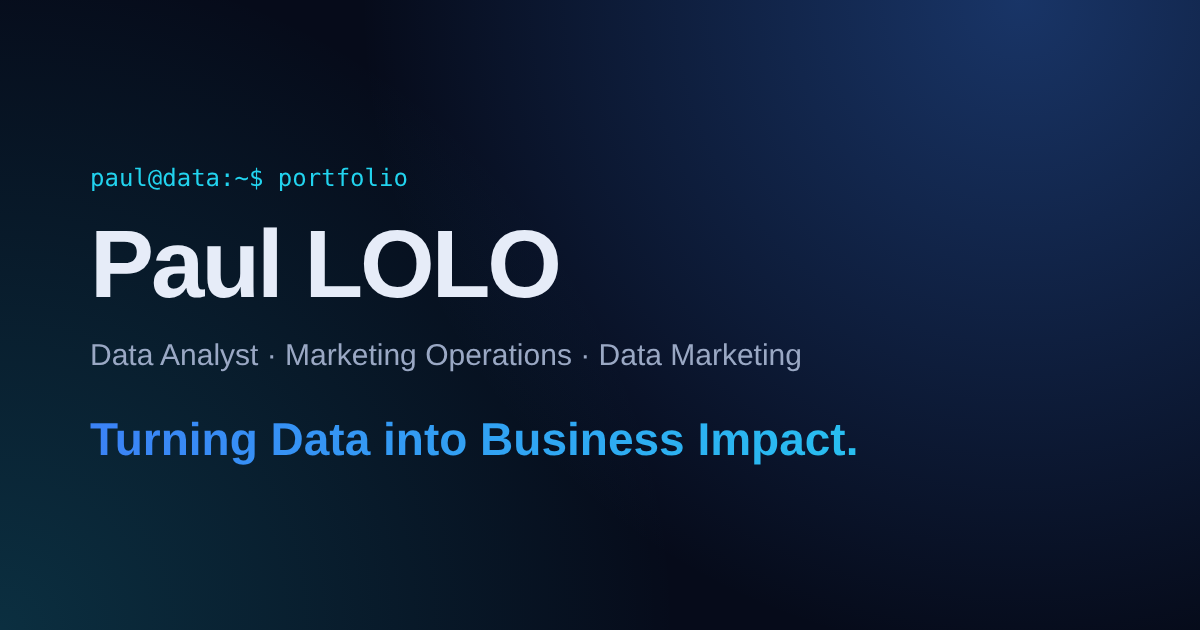
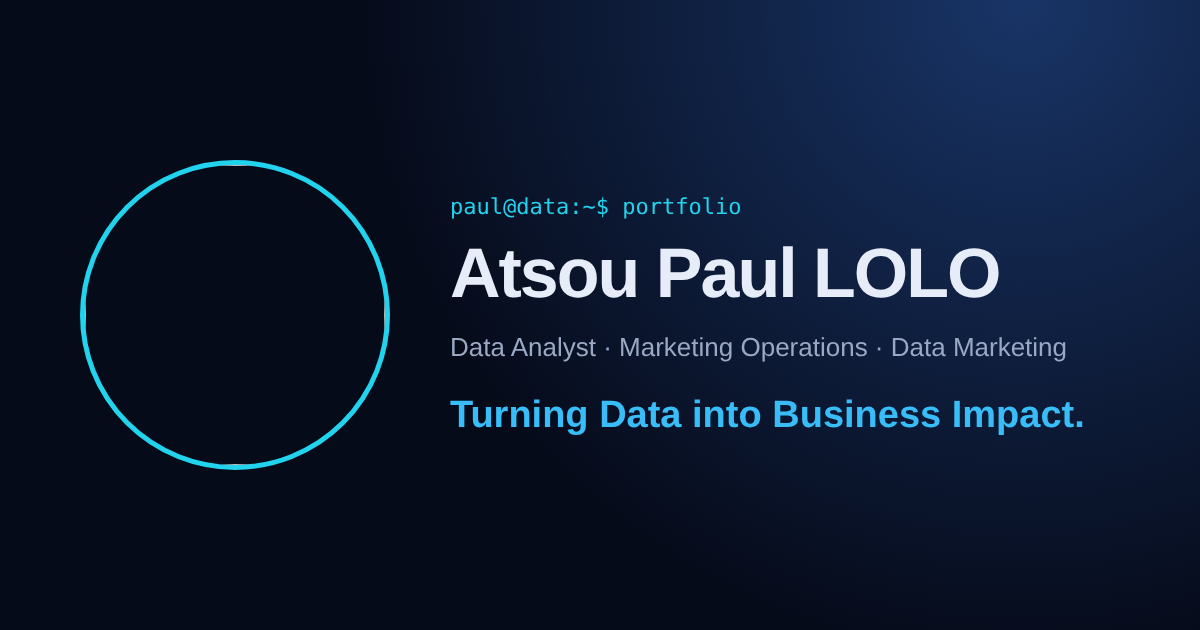
Name, profile photo, Marketing Ops tools
- Display name: Atsou Paul LOLO (header, hero, SEO tags, footer, share image)
- Profile photo in hero and About section
- Workflow steps shown as '01. Audit', '02. Track'...
- Added Google Analytics, Shopify, PrestaShop, UX Research, A/A & A/B testing

Claude-Session: https://claude.ai/code/session_01PvdbJfkUJEkWPGfozsGeSC

Changed region(s): [[0.0, 0.2413, 0.8942, 1.0]]

diff --git a/index.html b/index.html
@@ -4,21 +4,21 @@
   <meta charset="utf-8">
   <script>document.documentElement.classList.remove("no-js");</script>
   <meta name="viewport" content="width=device-width, initial-scale=1">
-  <title>Paul LOLO — Data Analyst | Marketing Operations | Data Marketing</title>
-  <meta name="description" content="Portfolio of Paul LOLO, Data Analyst and Marketing Operations profile: SQL, Power BI, Tableau, CRM analytics and digital project management. Open to apprenticeship opportunities.">
-  <meta name="author" content="Paul LOLO">
+  <title>Atsou Paul LOLO — Data Analyst | Marketing Operations | Data Marketing</title>
+  <meta name="description" content="Portfolio of Atsou Paul LOLO, Data Analyst and Marketing Operations profile: SQL, Power BI, Tableau, CRM analytics and digital project management. Open to apprenticeship opportunities.">
+  <meta name="author" content="Atsou Paul LOLO">
   <meta name="theme-color" content="#060b1a">
   <link rel="canonical" href="https://paul-lolo.netlify.app/">
 
   <!-- Open Graph / social sharing -->
   <meta property="og:type" content="website">
-  <meta property="og:title" content="Paul LOLO — Turning Data into Business Impact">
+  <meta property="og:title" content="Atsou Paul LOLO — Turning Data into Business Impact">
   <meta property="og:description" content="Data Analyst | Marketing Operations | Data Marketing | Digital Project Manager. Projects, dashboards and experience.">
   <meta property="og:url" content="https://paul-lolo.netlify.app/">
   <meta property="og:image" content="https://paul-lolo.netlify.app/assets/og-image.png">
   <meta property="og:locale" content="en_US">
   <meta name="twitter:card" content="summary_large_image">
-  <meta name="twitter:title" content="Paul LOLO — Turning Data into Business Impact">
+  <meta name="twitter:title" content="Atsou Paul LOLO — Turning Data into Business Impact">
   <meta name="twitter:description" content="Data Analyst | Marketing Operations | Data Marketing | Digital Project Manager.">
   <meta name="twitter:image" content="https://paul-lolo.netlify.app/assets/og-image.png">
 
@@ -32,10 +32,11 @@
   {
     "@context": "https://schema.org",
     "@type": "Person",
-    "name": "Paul LOLO",
+    "name": "Atsou Paul LOLO",
     "jobTitle": "Data Analyst | Marketing Operations | Data Marketing",
     "email": "mailto:lolopaul208@gmail.com",
     "url": "https://paul-lolo.netlify.app/",
+    "image": "https://paul-lolo.netlify.app/assets/atsou-paul-lolo.jpg",
     "sameAs": ["https://www.linkedin.com/in/paul-lolo-960610234/", "https://github.com/lolopaul208"],
     "alumniOf": { "@type": "CollegeOrUniversity", "name": "INSEEC" },
     "knowsAbout": ["Data Analysis", "SQL", "Power BI", "Tableau", "CRM Analytics", "Marketing Operations", "SEO"]
@@ -47,9 +48,9 @@
 
   <header class="site-header" id="top">
     <nav class="nav container" aria-label="Main navigation">
-      <a href="#home" class="brand" aria-label="Paul LOLO — home">
+      <a href="#home" class="brand" aria-label="Atsou Paul LOLO — home">
         <span class="brand-mark" aria-hidden="true">PL</span>
-        <span class="brand-name">Paul LOLO</span>
+        <span class="brand-name">Atsou Paul LOLO</span>
       </a>
       <button class="nav-toggle" aria-expanded="false" aria-controls="nav-links" aria-label="Open menu">
         <span></span><span></span><span></span>
@@ -73,8 +74,8 @@
       <div class="hero-grid-bg" aria-hidden="true"></div>
       <div class="container hero-inner">
         <div class="hero-text reveal">
-          <p class="eyebrow"><span class="status-dot" aria-hidden="true"></span> Open to apprenticeship opportunities</p>
-          <h1 id="hero-title">Paul <span class="accent">LOLO</span></h1>
+          <div class="hero-id"><img class="hero-avatar" src="assets/atsou-paul-lolo.jpg" alt="" width="64" height="64"><p class="eyebrow"><span class="status-dot" aria-hidden="true"></span> Open to apprenticeship opportunities</p></div>
+          <h1 id="hero-title">Atsou Paul <span class="accent">LOLO</span></h1>
           <p class="hero-role">Data Analyst <i>·</i> Marketing Operations <i>·</i> Data Marketing <i>·</i> Digital Project Manager</p>
           <p class="hero-tagline">Turning Data into <span class="grad">Business Impact.</span></p>
           <p class="hero-lead">I query, clean and model data, build dashboards that decision-makers actually use, and connect the numbers to marketing and business questions.</p>
@@ -104,6 +105,10 @@
         <div class="reveal">
           <p class="section-kicker">01 — About</p>
           <h2 id="about-title">Between data, marketing<br>and business.</h2>
+          <figure class="about-photo">
+            <img src="assets/atsou-paul-lolo.jpg" alt="Portrait of Atsou Paul LOLO" width="560" height="560" loading="lazy">
+            <figcaption><strong>Atsou Paul LOLO</strong><span>Data Analyst · Marketing Ops · Lyon, France</span></figcaption>
+          </figure>
         </div>
         <div class="about-text reveal">
           <p>I'm a <strong>Master's student specialising in Data Marketing at INSEEC</strong>, with a background in data analysis, artificial intelligence and data-driven marketing.</p>
@@ -144,12 +149,12 @@
           <article class="skill-card reveal">
             <div class="skill-icon" aria-hidden="true"><svg viewBox="0 0 24 24"><path d="M3 17l6-6 4 4 8-8"/><path d="M15 7h6v6"/></svg></div>
             <h3>Digital Growth</h3>
-            <ul class="chips"><li>SEO</li><li>Local SEO</li><li>Acquisition Strategy</li><li>Web Analytics</li><li>Conversion Optimization</li></ul>
+            <ul class="chips"><li>SEO</li><li>Local SEO</li><li>Acquisition Strategy</li><li>Web Analytics</li><li>Google Analytics</li><li>Shopify</li><li>PrestaShop</li><li>Conversion Optimization</li></ul>
           </article>
           <article class="skill-card reveal">
             <div class="skill-icon" aria-hidden="true"><svg viewBox="0 0 24 24"><rect x="3" y="4" width="18" height="16" rx="2"/><path d="M3 9h18M8 13h3M8 16h6"/></svg></div>
             <h3>Product &amp; Project Management</h3>
-            <ul class="chips"><li>Digital Project Management</li><li>Product Thinking</li><li>User Journey</li><li>Process Design</li></ul>
+            <ul class="chips"><li>Digital Project Management</li><li>Product Thinking</li><li>User Journey</li><li>UX Research</li><li>A/A &amp; A/B Testing</li><li>Process Design</li></ul>
           </article>
         </div>
       </div>
@@ -201,10 +206,10 @@
         </div>
 
         <ol class="workflow reveal" aria-label="How I work on acquisition">
-          <li><span class="wf-n">01</span><strong>Audit</strong><span>Where does traffic come from? What blocks conversion?</span></li>
-          <li><span class="wf-n">02</span><strong>Track</strong><span>UTMs, events and goals so every channel is measured the same way.</span></li>
-          <li><span class="wf-n">03</span><strong>Optimize</strong><span>SEO, paid search and landing pages, prioritised by impact.</span></li>
-          <li><span class="wf-n">04</span><strong>Report</strong><span>Clear KPIs and dashboards that lead to the next decision.</span></li>
+          <li><p class="wf-head"><span class="wf-n">01.</span> <strong>Audit</strong></p> <span class="wf-desc">Where does traffic come from? What blocks conversion?</span></li>
+          <li><p class="wf-head"><span class="wf-n">02.</span> <strong>Track</strong></p> <span class="wf-desc">UTMs, events and goals so every channel is measured the same way.</span></li>
+          <li><p class="wf-head"><span class="wf-n">03.</span> <strong>Optimize</strong></p> <span class="wf-desc">SEO, paid search and landing pages, prioritised by impact.</span></li>
+          <li><p class="wf-head"><span class="wf-n">04.</span> <strong>Report</strong></p> <span class="wf-desc">Clear KPIs and dashboards that lead to the next decision.</span></li>
         </ol>
 
         <div class="mops-grid" id="mops-grid"></div>
@@ -251,7 +256,7 @@
 
   <footer class="site-footer">
     <div class="container footer-inner">
-      <p>© <span id="year"></span> Paul LOLO</p>
+      <p>© <span id="year"></span> Atsou Paul LOLO</p>
       <p class="muted">Dashboard demos use fictitious data.</p>
       <a href="#top" class="muted">Back to top ↑</a>
     </div>

diff --git a/js/data.js b/js/data.js
@@ -144,10 +144,10 @@ window.PORTFOLIO = {
     },
     {
       icon: "plausible",
-      title: "Privacy-friendly Web Analytics",
-      text: "Cookie-less audience measurement that stays GDPR-compliant while still answering the key questions: where visitors come from and what they do.",
-      tasks: ["Traffic sources & referrers", "Goals and custom events", "Top pages and entry points", "Lightweight dashboards for the team"],
-      tools: ["Plausible Analytics"],
+      title: "Web Analytics",
+      text: "Measuring where visitors come from and what they do — with Google Analytics, or cookie-less and GDPR-friendly with Plausible.",
+      tasks: ["Traffic sources & referrers", "Goals, conversions and custom events", "Top pages and entry points", "Audience dashboards for the team"],
+      tools: ["Google Analytics 4", "Plausible Analytics"],
       usedOn: ["Le Pont Étudiant"]
     },
     {
@@ -163,6 +163,20 @@ window.PORTFOLIO = {
       text: "Turning visitors into qualified leads, then into customers — and using data to personalise each step.",
       tasks: ["Funnel analysis (visit → lead → customer)", "Landing-page and form optimisation", "Segmentation and lead scoring", "CRM data quality and enrichment"],
       tools: ["CRM", "SQL", "Power BI"]
+    },
+    {
+      icon: "shop",
+      title: "E-commerce Platforms",
+      text: "Running the marketing side of online shops: product pages, catalogue data and the sales funnel from visit to order.",
+      tasks: ["Product page and catalogue optimisation", "E-commerce tracking (orders, basket, revenue)", "Checkout funnel analysis", "Promotions and campaign follow-up"],
+      tools: ["Shopify", "PrestaShop", "Google Analytics 4"]
+    },
+    {
+      icon: "ux",
+      title: "UX Research & Testing",
+      text: "Understanding users before changing a page, then testing changes instead of guessing.",
+      tasks: ["User interviews and journey mapping", "Usability reviews of key pages", "A/A tests to validate the testing setup", "A/B tests on pages, forms and messages"],
+      tools: ["UX Research", "A/A Testing", "A/B Testing"]
     }
   ],
 

diff --git a/css/style.css b/css/style.css
@@ -460,3 +460,24 @@ ul, ol { margin: 0; padding: 0; list-style: none; }
 @media (max-width: 1100px) { .nav-links a { padding: 8px 10px; font-size: .9rem; } }
 @media (max-width: 960px) { .mops-grid { grid-template-columns: 1fr 1fr; } .workflow { grid-template-columns: 1fr 1fr; } .workflow li:nth-child(3) { border-left: 0; } .workflow li:nth-child(n+3) { border-top: 1px solid var(--border); } .workflow li::after { display: none; } }
 @media (max-width: 640px) { .mops-grid, .workflow { grid-template-columns: 1fr; } .workflow li + li { border-left: 0; border-top: 1px solid var(--border); } }
+
+/* ---- v3: photo, workflow labels, 4-col ops grid ---- */
+.hero h1 { font-size: clamp(2.8rem, 6.4vw, 4.8rem); }
+.hero-id { display: flex; align-items: center; gap: 14px; flex-wrap: wrap; }
+.hero-avatar { width: 52px; height: 52px; border-radius: 50%; object-fit: cover; border: 2px solid transparent; background: var(--grad) border-box; box-shadow: 0 0 0 3px var(--bg) inset; }
+.about-photo { margin: 32px 0 0; max-width: 320px; }
+.about-photo img { width: 100%; aspect-ratio: 1; object-fit: cover; border-radius: 20px; border: 1px solid var(--border-strong); box-shadow: 0 30px 70px -30px rgba(59,130,246,.55); filter: saturate(.95) contrast(1.03); }
+.about-photo figcaption { margin-top: 14px; display: flex; flex-direction: column; }
+.about-photo figcaption strong { font-family: var(--font-display); font-size: 1.05rem; }
+.about-photo figcaption span { color: var(--text-3); font-size: .85rem; }
+.workflow .wf-head { margin: 0; display: flex; align-items: baseline; gap: 8px; }
+.workflow .wf-n { font-size: .9rem; }
+.workflow .wf-desc { color: var(--text-2); font-size: .9rem; }
+.mops-grid { grid-template-columns: repeat(4, 1fr); gap: 18px; }
+.mops-card { padding: 22px; }
+.mops-top h3 { font-size: 1.02rem; }
+@media (max-width: 1180px) { .mops-grid { grid-template-columns: repeat(2, 1fr); } }
+@media (max-width: 860px) { .about-photo { max-width: 240px; margin-top: 24px; } }
+@media (max-width: 640px) { .mops-grid { grid-template-columns: 1fr; } }
+.about-photo { max-width: 260px; }
+.about-photo img { height: auto; }

diff --git a/404.html b/404.html
@@ -1,2 +1,2 @@
-<!doctype html><html lang="en"><head><meta charset="utf-8"><meta name="viewport" content="width=device-width, initial-scale=1"><title>Page not found — Paul LOLO</title><link rel="icon" href="/assets/favicon.svg"><link rel="stylesheet" href="/css/style.css"></head>
+<!doctype html><html lang="en"><head><meta charset="utf-8"><meta name="viewport" content="width=device-width, initial-scale=1"><title>Page not found — Atsou Paul LOLO</title><link rel="icon" href="/assets/favicon.svg"><link rel="stylesheet" href="/css/style.css"></head>
 <body><main class="section" style="min-height:100vh;display:grid;place-items:center;text-align:center"><div class="container"><p class="section-kicker">404</p><h2>This page doesn't exist.</h2><p class="section-sub">The query returned 0 rows.</p><a class="btn btn-primary" href="/">Back to portfolio →</a></div></main></body></html>

diff --git a/js/main.js b/js/main.js
@@ -169,7 +169,9 @@
     console: '<path d="M3 20h18"/><path d="M5 16l4-5 3 3 6-8"/><circle cx="18" cy="6" r="1.5"/>',
     plausible: '<path d="M4 18c3-1 4-9 8-9s4 6 8 3"/><path d="M4 21h16M4 3v18"/>',
     tracking: '<circle cx="12" cy="12" r="8"/><circle cx="12" cy="12" r="4"/><circle cx="12" cy="12" r="1"/>',
-    crm: '<path d="M3 5h18l-7 8v6l-4 2v-8z"/>'
+    crm: '<path d="M3 5h18l-7 8v6l-4 2v-8z"/>',
+    shop: '<path d="M4 7h16l-1.5 11a2 2 0 0 1-2 1.8h-9a2 2 0 0 1-2-1.8z"/><path d="M9 10V6a3 3 0 0 1 6 0v4"/>',
+    ux: '<circle cx="9" cy="9" r="5"/><path d="M13 13l3 3"/><path d="M15 19l2 2 4-4"/>'
   };
   var mg = $("#mops-grid");
   if (mg && D.marketingOps) {

diff --git a/README.md b/README.md
@@ -1,4 +1,4 @@
-# Paul LOLO — Portfolio (Data · Marketing Ops · BI)
+# Atsou Paul LOLO — Portfolio (Data · Marketing Ops · BI)
 
 Static site in plain HTML / CSS / JavaScript. No framework, no build step, no backend — it can be deployed on Netlify as is.
 
